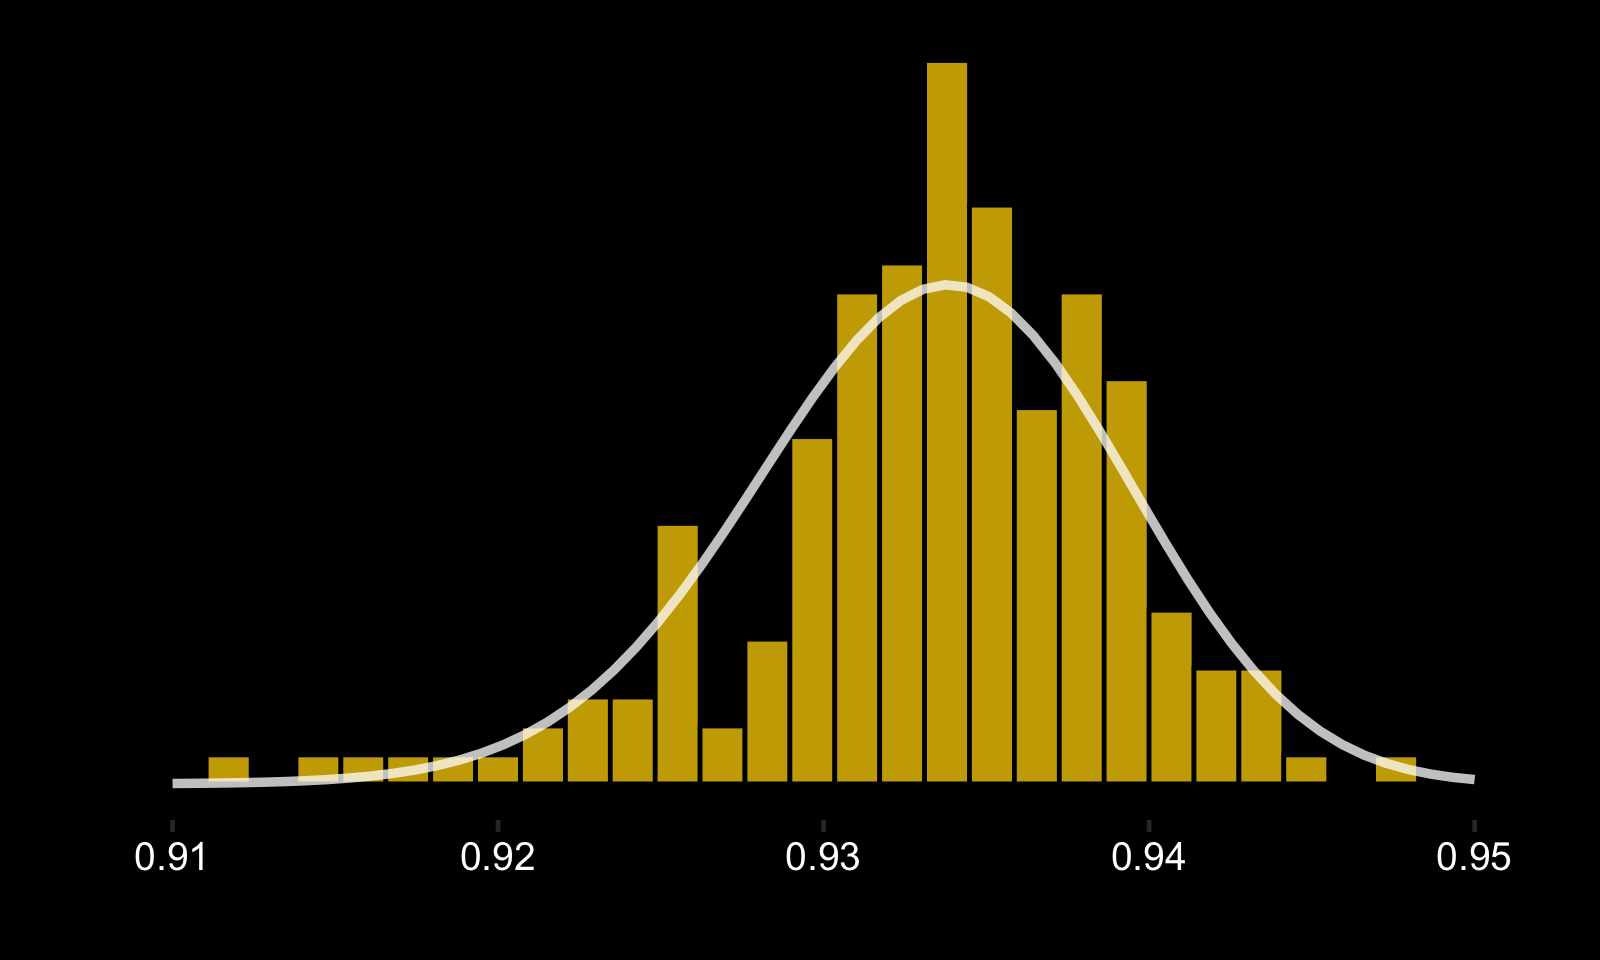
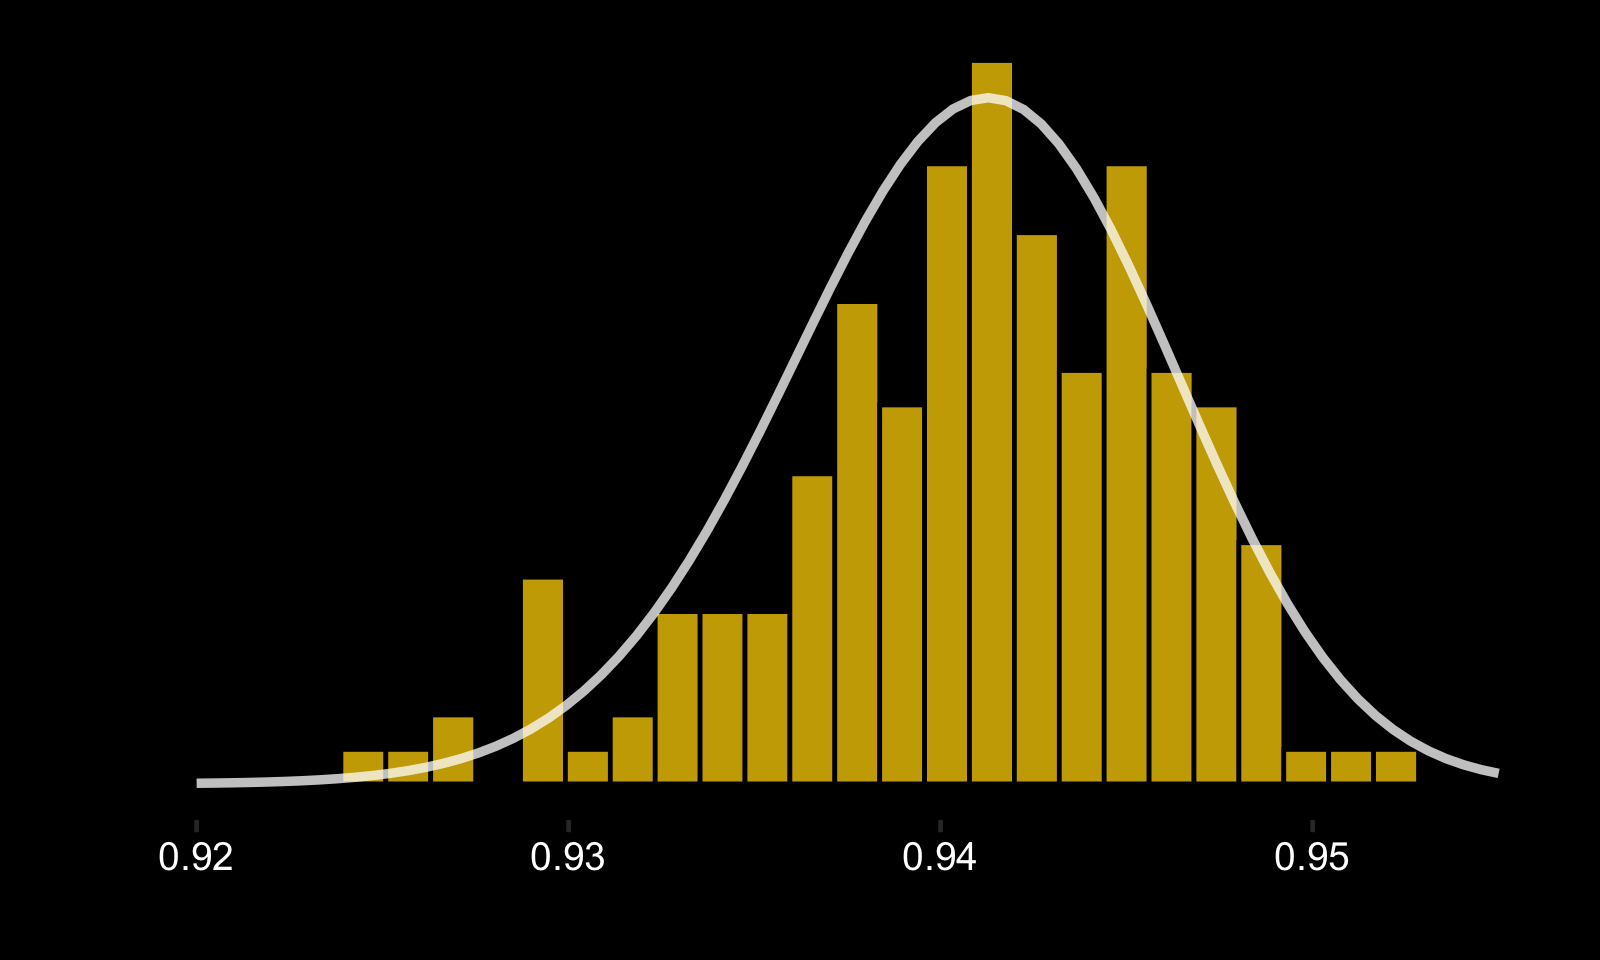
remove special teams shots

diff --git a/_posts/2023-05-17-goalie-consistency-4.md b/_posts/2023-05-17-goalie-consistency-4.md
@@ -13,12 +13,12 @@ Let's again look at uncertainty, but this time, instead of the uncertainty in go
 </p>
 <p>
 <h5>Step One</h5>
-The first step of empirircal Bayes is to use the observed data to fit a prior distribution. Think of it like this - a new goalie you've never heard of appears. What probability would you give that they have a career .920 Fenwick save percentage*? .930? .940?
+The first step of empirircal Bayes is to use the observed data to fit a prior distribution. Think of it like this - a new goalie you've never heard of appears. What probability would you give that they have a career .930 Fenwick save percentage*? .940? .950?
 </p>
 <p>
 *Fenwick save percentage is the total percentage of unblocked shots saved. This means that shots which miss the net are still counted. It has been proven that goalie skill is correlated with making players miss the net.
 <p>
-Here's a histogram of career Fenwick save percentages for goalies having faced 750+ shots.
+Here's a histogram of career 5v5 Fenwick save percentages for goalies having faced 750+ shots.
 </p>
 <p>
 <div style="text-align: center"> <img src="https://spazznolo.github.io/figs/goalie-four-one.png" width="60%" length="150"/></div>
@@ -50,9 +50,9 @@ As an example, let's plot the posterior distributions for two 24 year old goalie
 </p>
 <p>
 These posterior distributions allow for some interesting insights, like: 
-    - There's a 63.29% chance that Oettinger is better than Swayman
-    - There's a 96.21% chance that Oettinger is better than average
-    - There's a 86.88% chance that Swayman is better than average
+    - There's a 53.72% chance that Oettinger is better than Swayman
+    - There's a 79.77% chance that Oettinger is better than average
+    - There's a 73.79% chance that Swayman is better than average
     - Oettinger's distribution is tighter than Swayman's because he's faced more shots.
 </p>
 <p>
